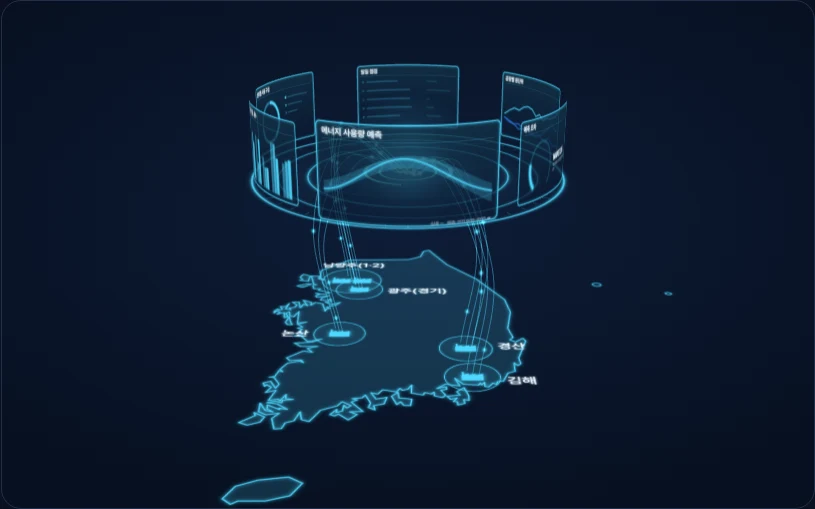
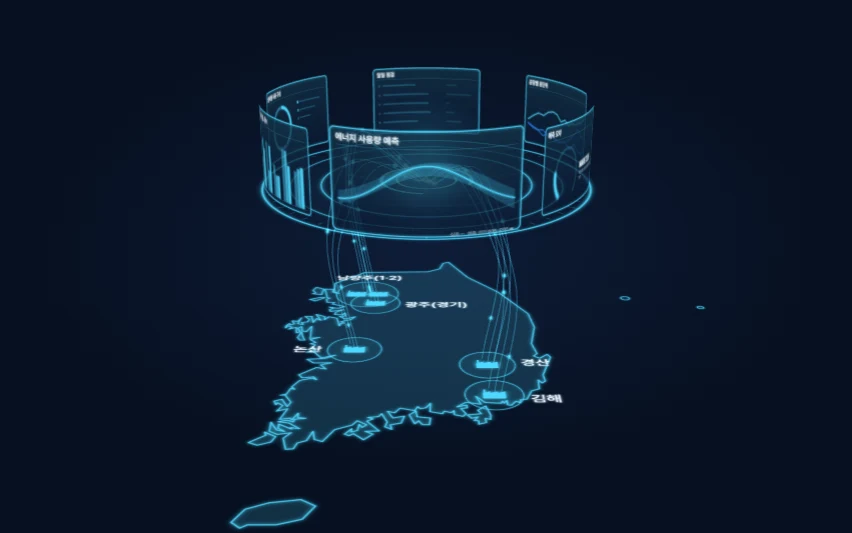
feat(home): 장면 섹션을 설명 없는 전면 쇼케이스 띠로 바꿈
보는 사람 입장에서 액자·캡션·범례·수치 칸·역할 문구는 전시 설명문처럼 읽혔고,
첫 화면과 주요 성과에 있는 수치를 한 화면 안에서 세 번 되풀이하고 있었습니다.
무대 색을 띠 전체로 넓혀 그림이 화면의 일부가 되게 하고, 문구는 제목 한 줄과
설명 한 줄, 링크 하나만 남겼습니다. 그림 설명은 대체 텍스트로만 둡니다.

Claude-Session: https://claude.ai/code/session_01Sw2iLu4VyVtqBzBsYXTEBb

diff --git a/app/globals.css b/app/globals.css
@@ -679,34 +679,39 @@ footer h2 { margin: 0; font-size: clamp(28px, 3.4vw, 46px); line-height: 1.25; l
  * 크게 보여 주는 수치에만 고정폭을 씁니다. 12.5px 라벨까지 monospace로 두면
  * 글꼴이 없는 환경에서 Courier로 떨어져 오히려 읽기 나빠집니다.
  */
-.hero-metrics dt, .metric-evidence-list dt, .scene-facts dt {
+.hero-metrics dt, .metric-evidence-list dt {
   font-family: var(--mono); font-variant-numeric: tabular-nums; letter-spacing: -.02em;
 }
 
-/* ── 시스템 한눈에 보기 (3D 장면) ─────────────────────── */
+/* ── 공장 에너지 AI 플랫폼 (3D 장면) ─────────────────────── */
+/*
+ * 어두운 전면 띠입니다. 그림을 액자에 넣어 설명을 다는 대신, 무대 색을 띠 전체로
+ * 넓혀 그림이 화면의 일부가 되게 합니다. 수치는 위(첫 화면)와 아래(주요 성과)에 있으므로
+ * 여기서는 되풀이하지 않습니다.
+ */
 .scene-section {
-  display: grid; grid-template-columns: minmax(0, .82fr) minmax(0, 1.18fr);
-  gap: clamp(32px, 4vw, 64px); align-items: center;
-  padding: 96px clamp(24px, 5vw, 78px) 104px;
-  background: var(--paper); border-bottom: 1px solid var(--line);
+  display: grid; grid-template-columns: minmax(0, .78fr) minmax(0, 1.22fr);
+  gap: clamp(24px, 3vw, 48px); align-items: center;
+  padding: clamp(56px, 7vh, 88px) clamp(24px, 5vw, 78px);
+  background: var(--scene-bg); color: var(--scene-text);
 }
+.scene-intro .section-index { color: var(--scene-glow); }
 .scene-intro h2 {
-  margin: 0 0 20px; font-size: clamp(24px, 2.6vw, 34px); line-height: 1.35;
-  letter-spacing: -.025em; word-break: keep-all;
+  margin: 0 0 20px; color: var(--scene-text);
+  font-size: clamp(26px, 2.8vw, 38px); line-height: 1.3; letter-spacing: -.025em; word-break: keep-all;
 }
 .scene-intro > p {
-  margin: 0; max-width: 460px; color: var(--body);
+  margin: 0; max-width: 440px; color: var(--scene-muted);
   font-size: 15.5px; line-height: 1.8; word-break: keep-all;
 }
+.scene-intro .section-link { margin-top: 22px; color: var(--scene-glow); }
+.scene-intro .section-link:hover { color: var(--scene-text); }
 .hero-scene { margin: 0; }
-/*
- * 비율을 미리 잡아 두어, 장면이 늦게 켜져도 아래 내용이 밀리지 않게 합니다.
- */
+/* 비율을 미리 잡아 두어, 장면이 늦게 켜져도 아래 내용이 밀리지 않게 합니다. */
 .hero-scene-frame {
-  position: relative; aspect-ratio: 16 / 10; max-width: 100%;
-  overflow: hidden; border: 1px solid var(--line); border-radius: var(--radius);
-  /* 어두운 무대. 홀로그램은 밝은 배경에서 빛나지 않습니다. */
-  background: radial-gradient(ellipse 70% 60% at 50% 42%, var(--scene-bg-2), var(--scene-bg) 100%);
+  position: relative; aspect-ratio: 16 / 10; max-width: 100%; overflow: hidden;
+  /* 무대 가운데만 살짝 밝힙니다. 가장자리는 띠 배경과 같은 색이라 경계가 없습니다. */
+  background: radial-gradient(ellipse 46% 42% at 50% 46%, var(--scene-bg-2), var(--scene-bg) 100%);
 }
 .hero-scene-frame img {
   position: absolute; inset: 0; width: 100%; height: 100%;
@@ -717,25 +722,9 @@ footer h2 { margin: 0; font-size: clamp(28px, 3.4vw, 46px); line-height: 1.25; l
   position: absolute; inset: 0; opacity: 0; transition: opacity .6s ease;
 }
 .hero-scene-canvas.is-live { opacity: 1; }
-.hero-scene figcaption {
-  margin-top: 14px; color: var(--muted); font-size: 13.5px;
-  line-height: 1.7; word-break: keep-all;
-}
-/* 장면 옆 수치. 값은 원장에서 오고, 조건을 떼지 않습니다. */
-.scene-facts {
-  display: grid; grid-template-columns: repeat(3, minmax(0, 1fr)); gap: 1px;
-  margin: 26px 0 0; padding: 1px; background: var(--line);
-  border-radius: var(--radius); overflow: hidden;
-}
-.scene-facts > div { min-width: 0; padding: 16px 18px; background: var(--surface); }
-.scene-facts dt { color: var(--blue-dark); font-size: clamp(19px, 1.6vw, 23px); font-weight: 800; }
-.scene-facts dd { margin: 6px 0 0; color: var(--ink); font-size: 13.5px; line-height: 1.5; word-break: keep-all; }
-.scene-facts dd small { display: block; margin-top: 4px; color: var(--muted); font-size: 12.5px; line-height: 1.5; }
-.scene-intro .scene-role { margin-top: 18px; font-size: 14px; color: var(--muted); }
-.scene-links { display: flex; flex-wrap: wrap; gap: 8px 24px; }
-@media (max-width: 950px) { .scene-facts { grid-template-columns: 1fr; } }
+.hero-scene-frame picture { position: absolute; inset: 0; display: block; }
 
 @media (max-width: 950px) {
-  .scene-section { grid-template-columns: 1fr; padding-top: 72px; padding-bottom: 80px; }
+  .scene-section { grid-template-columns: 1fr; padding-top: 56px; padding-bottom: 40px; }
+  .scene-intro { padding-bottom: 8px; }
 }
-.hero-scene-frame picture { position: absolute; inset: 0; display: block; }

diff --git a/app/page.tsx b/app/page.tsx
@@ -31,11 +31,6 @@ export default function Home() {
   // 장면에 세우는 공장 이름과 예측 오차도 원장에서 읽습니다. 화면과 사실이 갈라지지 않게.
   const plants = getPlantNames();
   const forecastError = getMetric("forecast-mape-all");
-  // 장면 옆에 적는 수치도 원장에서 읽습니다. 값·조건을 따로 적어 두지 않습니다.
-  const sceneFacts = ["bems-plants", "forecast-mape-all", "bems-monthly-saving"].map((id) => ({
-    id,
-    ...getMetric(id),
-  }));
   // 포스터는 이름이 같은 채로 다시 만들어지므로, 내용 해시로 캐시를 깹니다.
   const posterFor = (file: string) =>
     publicAssetExists(file) ? `${withBasePath(file)}?v=${publicAssetVersion(file)}` : null;
@@ -59,47 +54,25 @@ export default function Home() {
 
       <section className="scene-section" aria-labelledby="scene-heading">
         <div className="scene-intro">
-          <p className="section-index">공장 에너지 AI 플랫폼 · 사내 AI 전문가 과정 팀과제</p>
+          <p className="section-index">공장 에너지 AI 플랫폼</p>
           <h2 id="scene-heading">
-            다섯 공장의 전력·연료·용수 데이터를 한 시스템에 모아,
-            <br />예측과 실측을 함께 봅니다.
+            다섯 공장의 에너지 데이터가
+            <br />한 화면에 모입니다.
           </h2>
           <p>
-            공장마다 다르던 생산·에너지 데이터 형식을 표준화해 MySQL에 담고, 조회·비교·원단위
-            분석·예측·AI 보고서를 하나의 사내 웹 시스템에서 처리합니다. 예측모델은 부스팅 3종과
-            피처셋 2종을 가중 결합해 초기 단일 모델의 오차를 낮췄고, 예측값은 실적과 함께 보는
-            보조지표로 씁니다.
+            전력·연료·용수와 생산 실적을 하나로 모아 AI 예측과 실측을 나란히 보는,
+            사내에서 운영 중인 시스템입니다.
           </p>
-          <dl className="scene-facts">
-            {sceneFacts.map((fact) => (
-              <div key={fact.id}>
-                <dt>{fact.display}</dt>
-                <dd>
-                  {fact.label}
-                  {fact.condition && <small>{fact.condition}</small>}
-                </dd>
-              </div>
-            ))}
-          </dl>
-          <p className="scene-role">
-            사내 AI 전문가 과정 팀과제로 시작해 사내에서 운영 중입니다. 기획·개발과 예측모델
-            설계를 맡았습니다.
-          </p>
-          <div className="scene-links">
-            <Link className="section-link" href="/projects/ai-elite-bems/">
-              프로젝트 자세히 →
-            </Link>
-            <Link className="section-link" href="/experience/EXP-BG-ENERGY-WEB/">
-              경험 카드 →
-            </Link>
-          </div>
+          <Link className="section-link" href="/projects/ai-elite-bems/">
+            프로젝트 보기 →
+          </Link>
         </div>
         <HeroSceneGate
           plants={plants}
           metric={{ display: forecastError.display, condition: forecastError.condition }}
           poster={posterFor("/hero-poster.webp")}
           posterDark={posterFor("/hero-poster-dark.webp")}
-          caption="다섯 공장의 에너지 데이터가 하나의 시스템으로 모이는 흐름"
+          caption="남한 지도 위 다섯 공장에서 에너지 데이터가 하나의 화면으로 모이는 모습"
         />
       </section>
 

diff --git a/app/components/hero-scene/gate.test.tsx b/app/components/hero-scene/gate.test.tsx
@@ -47,7 +47,6 @@ describe("3D 장면 문지기", () => {
     const poster = screen.getByRole("img", { name: props.caption });
     expect(poster).toBeVisible();
     expect(poster).toHaveAttribute("src", "/hero-poster.webp");
-    expect(screen.getByText(props.caption)).toBeVisible();
   });
 
   it("어두운 화면에서는 어두운 포스터를 쓴다", () => {
@@ -61,10 +60,10 @@ describe("3D 장면 문지기", () => {
 
   it("포스터가 아직 없으면 깨진 이미지를 보여 주지 않는다", () => {
     stubMatchMedia(true);
-    render(<HeroSceneGate {...props} poster={null} posterDark={null} />);
+    const { container } = render(<HeroSceneGate {...props} poster={null} posterDark={null} />);
 
     expect(screen.queryByRole("img")).not.toBeInTheDocument();
-    expect(screen.getByText(props.caption)).toBeVisible();
+    expect(container.querySelector(".hero-scene-frame")).toBeInTheDocument();
   });
 
   it("모션 축소 설정에서는 장면을 불러오지 않는다", () => {
@@ -79,6 +78,6 @@ describe("3D 장면 문지기", () => {
     delete window.matchMedia;
 
     expect(() => render(<HeroSceneGate {...props} />)).not.toThrow();
-    expect(screen.getByText(props.caption)).toBeVisible();
+    expect(screen.getByRole("img", { name: props.caption })).toBeVisible();
   });
 });

diff --git a/app/components/hero-scene/index.tsx b/app/components/hero-scene/index.tsx
@@ -40,6 +40,7 @@ export default function HeroSceneGate({
   plants: string[];
   poster: string | null;
   posterDark: string | null;
+  /** 그림의 대체 텍스트. 화면에는 보이지 않습니다. 그림은 설명 없이 놓습니다. */
   caption: string;
   /** 장면의 패널에 적을 예측 오차. 원장에서 옵니다. */
   metric?: SceneMetric;
@@ -119,7 +120,6 @@ export default function HeroSceneGate({
           </div>
         )}
       </div>
-      <figcaption>{caption}</figcaption>
     </figure>
   );
 }

diff --git a/app/readability.test.ts b/app/readability.test.ts
@@ -83,7 +83,7 @@ describe("글자 크기", () => {
       ".detail-repo",
       ".markdown-body code",
       ".markdown-body pre",
-      ".hero-metrics dt, .metric-evidence-list dt, .scene-facts dt",
+      ".hero-metrics dt, .metric-evidence-list dt",
     ]);
   });
 });
